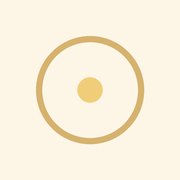
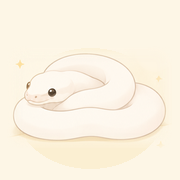
내 앱: 볼파이톤 이름·로고·기본 뱀 그림·아이콘
Claude-Session: https://claude.ai/code/session_01HAcWdh2t7bPHGCuiJUD53T

diff --git a/config.js b/config.js
@@ -1,9 +1,8 @@
-// ===== 배포할 때 여기만 바꾸면 돼요 =====
-// 앱 안 정보 탭 → 앱 꾸미기에서도 바꿀 수 있어요 (그 폰에만 적용).
+// ===== 내 앱 설정 =====
 window.APP_CONFIG = {
-  name: '뱀 일기',        // 브라우저 탭에 보이는 이름 (홈 화면 아이콘 이름은 manifest.json의 name·short_name)
-  title: 'SNAKE DIARY',  // 홈 맨 위 큰 글자
-  tag: 'DAILY LOG',      // 그 아래 작은 글자
-  mark: '',              // 홈 맨 위 마크 이미지 경로 (예: 'img/mark.png'). 비우면 빈 동그라미
-  petImage: ''           // 사진을 안 넣은 개체에 보여 줄 그림 경로. 비우면 이름 첫 글자·'사진 넣기' 칸
+  name: '볼파이톤 일기',
+  title: 'BALL PYTHON',
+  tag: 'DAILY LOG',
+  mark: 'img/logo.png',
+  petImage: 'img/snake.png'
 };

diff --git a/README.md b/README.md
@@ -1,42 +1,6 @@
-# 뱀 일기 (Snake Daily Log)
+# 볼파이톤 일기 (내 앱)
 
-뱀 사육 기록 웹앱이에요. 폰 홈 화면에 추가해서 앱처럼 써요. 서버 없이 폰 브라우저에 저장되고, 원하면 내 깃허브 비공개 저장소에 백업돼요.
+놀지 사육 기록 앱이에요. 기록은 비공개 저장소 `ballpython-diary`에 올라가요.
 
-- 예시 주소: https://077qkr-commits.github.io/ballpython-log/
-
-## 할 수 있는 것
-- **여러 마리**: 개체마다 프로필·사진·급여·배변·탈피·체중·성장 사진 기록
-- **사육장 쌓기**: 1자(30cm)~4자(120cm) 사육장을 블록처럼 쌓고, 색과 사는 친구를 정해요. 사육장을 누르면 그 친구의 기록을 써요.
-- **온도·습도는 사육장 단위**: 같은 사육장 친구끼리 함께 써요
-- **여러 마리 한 번에 기록**: 급여·배변·특이사항·사육장 온습도
-- **종별 기준값 (참고용)**: 볼파이톤, 콘스네이크, 웨스턴 호그노즈, 캘리포니아 킹스네이크, 보아(BCI), 카펫 파이톤, 기타. 개체마다 직접 고칠 수 있어요.
-- 꺾은선 그래프(핫존·쿨존·습도·체중), 월·주·일 달력, 성장 타임라인
-- 백업 파일 내보내기·불러오기 (토큰은 빠져요)
-
-## 쓰는 법
-1. 사파리(아이폰)나 크롬(안드로이드)으로 앱 주소 열기 → 공유 → 홈 화면에 추가
-2. 정보 탭에서 프로필·사진 넣기, 사육장 꾸미기
-
-## 깃허브 백업 (선택)
-1. 내 계정에 **Private** 저장소 만들기 (README 1개 추가해서 비어 있지 않게)
-2. Settings → Developer settings → Fine-grained tokens
-   - Repository access: 방금 만든 저장소만
-   - Permissions → Contents: Read and write
-3. 앱 정보 탭 → 깃허브 연결에 아이디·저장소·토큰 → 저장 → 연결 확인
-
-기록은 `logs/<개체ID>/YYYY-MM-DD.md`, 사진은 `photos/<개체ID>/`에 올라가요. 토큰은 그 폰에만 저장돼요.
-
-## 내 서버에 올리기
-정적 파일뿐이라 이 저장소를 포크하고 Settings → Pages에서 `main` / `/ (root)`로 켜면 돼요.
-
-### 앱 이름 · 마크 바꾸기
-- `config.js`: 브라우저 탭 이름(`name`), 홈 맨 위 큰 글자(`title`), 작은 글자(`tag`), 마크 이미지 경로(`mark`)
-- `manifest.json`: 홈 화면 아이콘 아래 이름(`name`, `short_name`)
-- `icon-180.png`, `icon-192.png`, `icon-512.png`: 홈 화면 아이콘
-- 쓰는 사람도 앱 안 정보 탭 → 앱 꾸미기에서 이름과 마크를 바꿀 수 있어요 (그 폰에만 적용)
-
-기본 뱀 그림과 마크는 들어 있지 않아요. 개체 사진은 각자 넣어요.
-
-## 주의
-- 종별 수치는 여러 사육 정보를 참고한 값이에요. 개체 상태를 보고 조절하고, 이상하면 파충류 진료 병원에 문의하세요.
-- 기록 화면의 그릇·온도계·메모 그림(`img/`)은 ChatGPT로 만든 이미지예요.
+- 앱 주소: https://077qkr-commits.github.io/ballpython-log/
+- 공개 배포용 코드는 `public` 브랜치에 있어요 (기본 그림·로고 없음, 이름은 `config.js`로 설정).
